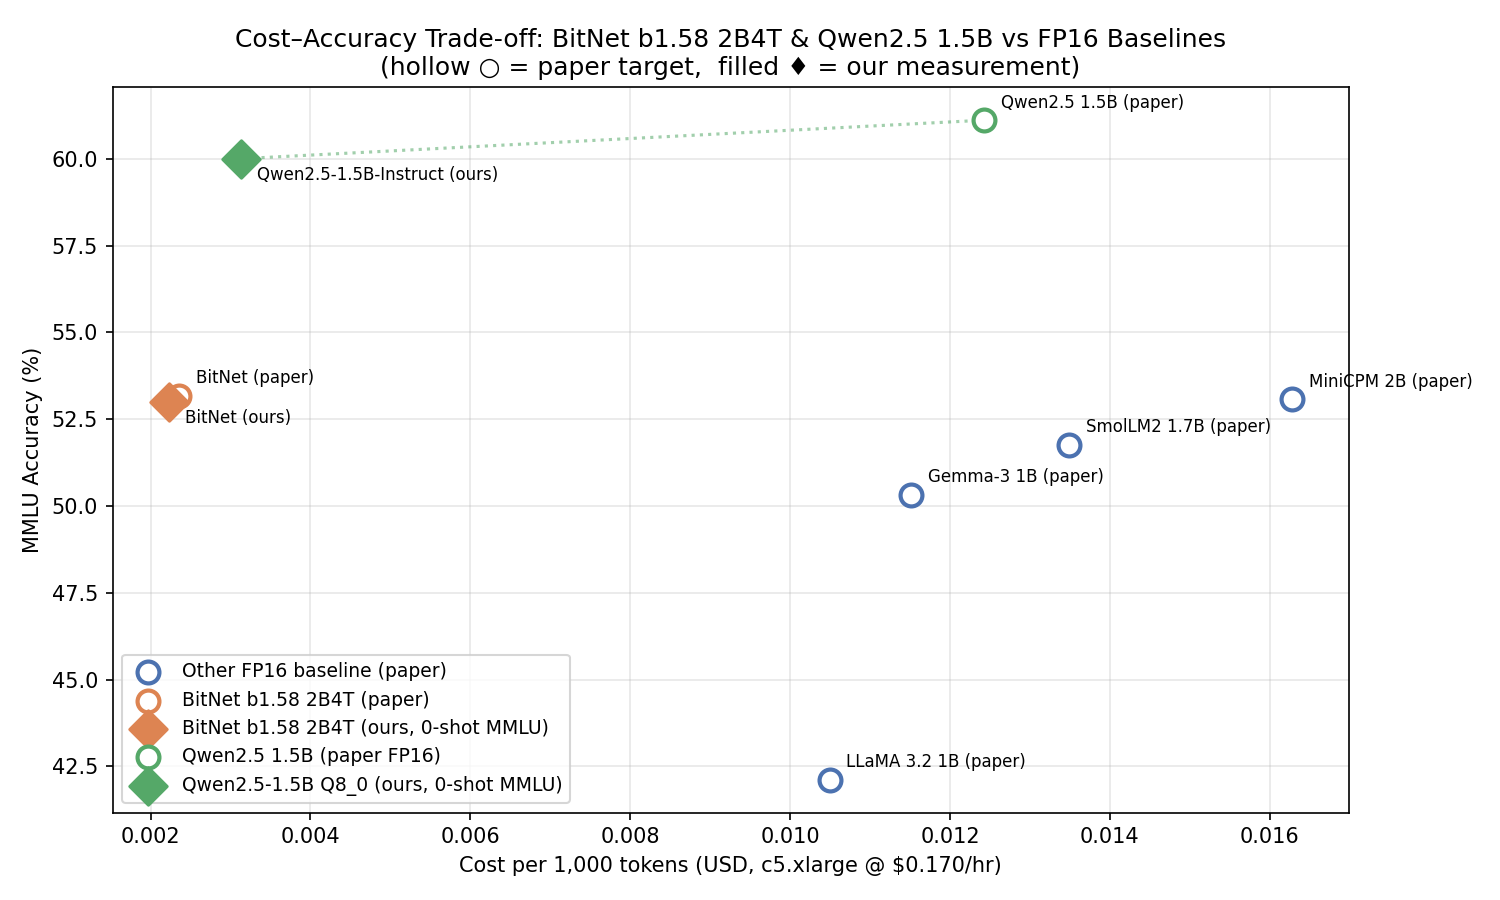
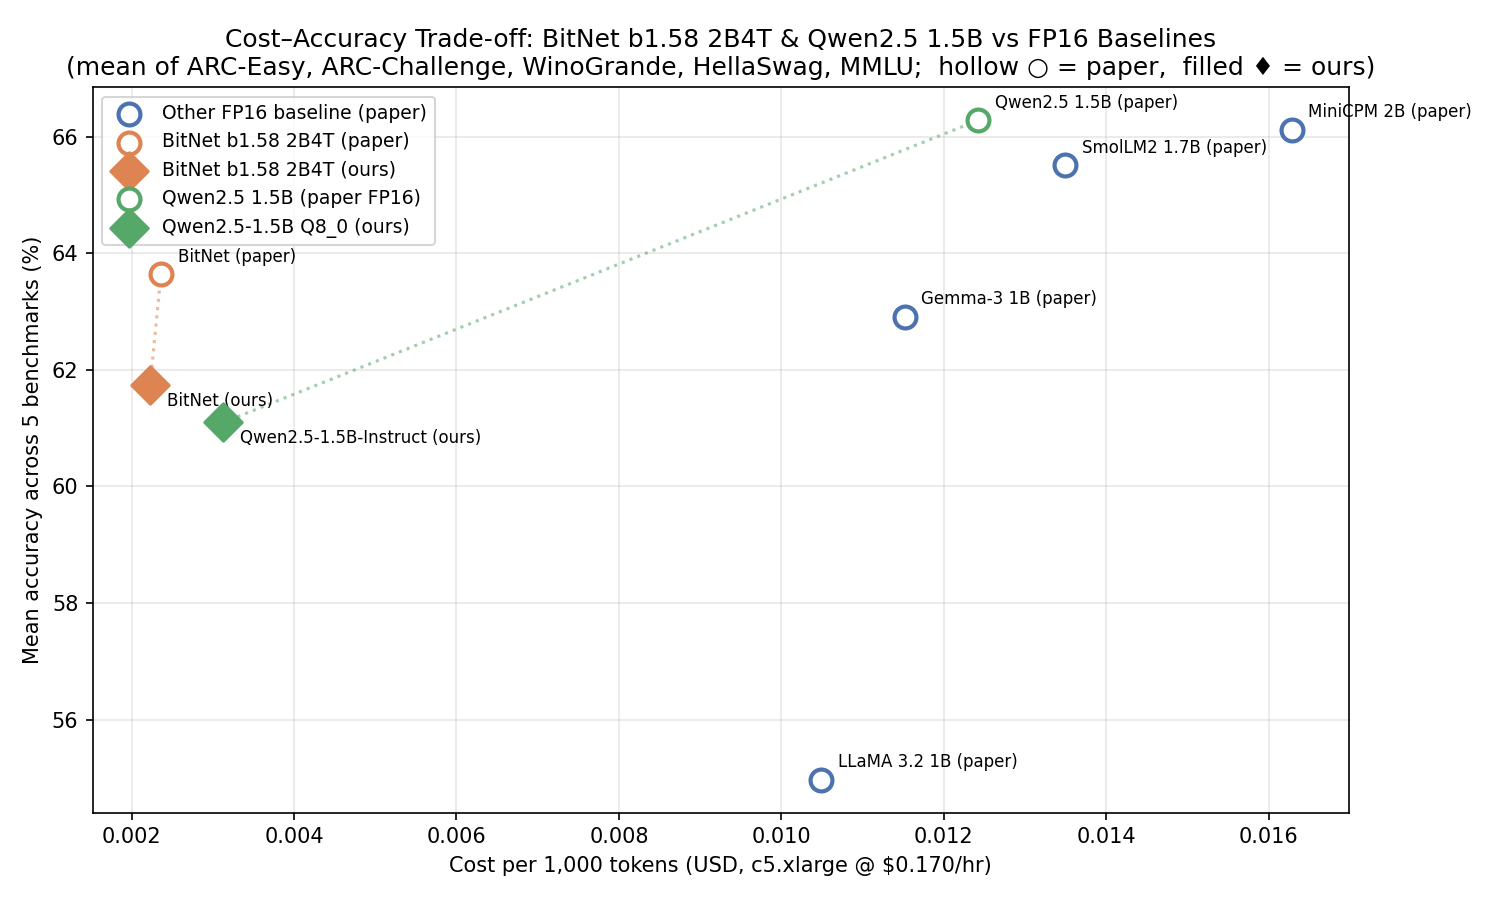
Add per-task cost/memory plots and Qwen throughput-by-config
- cost_accuracy.png and memory_accuracy_pareto.png now use the
  mean accuracy across all five benchmarks (ARC-Easy, ARC-Challenge,
  WinoGrande, HellaSwag, MMLU) instead of MMLU only.
- Adds per-task variants: {task}_cost_accuracy.png and
  {task}_memory_accuracy.png for each of the five tasks.
- Adds qwen_throughput_configs.png to mirror the BitNet equivalent;
  plot_throughput_by_config is parameterized by model/color/filename.
- Shared scatter logic extracted into _accuracy_scatter so the mean
  and per-task variants stay visually consistent (hollow paper,
  filled ours, dotted paper->ours connector).

diff --git a/scripts/compare_runs.py b/scripts/compare_runs.py
@@ -93,6 +93,15 @@ OTHER_COLOR  = "#4C72B0"
 BITNET_COLOR = "#DD8452"
 QWEN_COLOR   = "#55A868"
 
+# Display names for the five accuracy tasks (used in per-task plot titles/labels)
+TASK_LABELS = {
+    "arc_easy":      "ARC-Easy",
+    "arc_challenge": "ARC-Challenge",
+    "winogrande":    "WinoGrande",
+    "hellaswag":     "HellaSwag",
+    "mmlu":          "MMLU",
+}
+
 
 def parse_args():
     p = argparse.ArgumentParser()
@@ -349,19 +358,20 @@ def plot_memory(local_df: pd.DataFrame, out_dir: Path, qwen_df: pd.DataFrame | N
     print(f"Saved {path}")
 
 
-def plot_throughput_by_config(local_df: pd.DataFrame, out_dir: Path):
-    if local_df is None or local_df.empty:
-        print("Skipping BitNet throughput-by-config plot: no benchmark CSV.")
+def plot_throughput_by_config(df: pd.DataFrame, out_dir: Path,
+                              model_name: str, color: str, filename: str):
+    if df is None or df.empty:
+        print(f"Skipping {filename}: no benchmark CSV.")
         return
-    configs = local_df.groupby(["n_prompt", "n_gen"])["throughput_tokens_s"].median().reset_index()
+    configs = df.groupby(["n_prompt", "n_gen"])["throughput_tokens_s"].median().reset_index()
     labels = [f"p={int(row.n_prompt)} / g={int(row.n_gen)}" for _, row in configs.iterrows()]
 
     fig, ax = plt.subplots(figsize=(8, 4))
-    ax.bar(labels, configs["throughput_tokens_s"], color="#DD8452")
+    ax.bar(labels, configs["throughput_tokens_s"], color=color)
     ax.set_ylabel("Throughput (tokens/s)")
-    ax.set_title("BitNet b1.58 2B4T Throughput by Prompt/Generation Length")
+    ax.set_title(f"{model_name} Throughput by Prompt/Generation Length")
     fig.tight_layout()
-    path = out_dir / "bitnet_throughput_configs.png"
+    path = out_dir / filename
     fig.savefig(path, dpi=150)
     plt.close(fig)
     print(f"Saved {path}")
@@ -412,15 +422,49 @@ def plot_accuracy(local_acc: dict, out_dir: Path, qwen_acc: dict | None = None):
     print(f"Saved {path}")
 
 
-def plot_cost_accuracy(df: pd.DataFrame, out_dir: Path, hardware_rate: float):
-    # Use MMLU as the accuracy axis — most general benchmark, reported by all models.
-    # Hollow circles = paper-reported numbers; filled diamonds = our local measurements.
-    # A dotted connector between each model's (paper, ours) pair makes the
-    # paper-to-measurement delta visible at a glance.
-    plot_df = df[df["cost_per_1k_tokens"].notna() & (df["cost_per_1k_tokens"] != "")].copy()
-    plot_df = plot_df[plot_df["mmlu"].notna() & (plot_df["mmlu"] != "")].copy()
-    plot_df["cost_per_1k_tokens"] = pd.to_numeric(plot_df["cost_per_1k_tokens"])
-    plot_df["mmlu"] = pd.to_numeric(plot_df["mmlu"])
+def _accuracy_scatter(
+    df: pd.DataFrame,
+    out_dir: Path,
+    *,
+    x_col: str,
+    y_metric: str,        # one of TASK_LABELS keys, or the special value "mean_acc"
+    x_label: str,
+    y_label: str,
+    title: str,
+    filename: str,
+    legend_loc: str = "best",
+) -> None:
+    """
+    Shared scatter for both cost–accuracy and memory–accuracy comparisons.
+
+    Hollow circles = paper-reported numbers; filled diamonds = our local
+    measurements.  A dotted connector between each model's (paper, ours) pair
+    makes the paper-to-measurement delta visible at a glance.
+
+    `y_metric` selects the accuracy axis: either a task column name (e.g.
+    "mmlu") or "mean_acc" — the mean across the five tasks in TASK_LABELS.
+    """
+    plot_df = df[df[x_col].notna() & (df[x_col] != "")].copy()
+    plot_df[x_col] = pd.to_numeric(plot_df[x_col])
+
+    if y_metric == "mean_acc":
+        def _mean(row):
+            vals = []
+            for f in TASK_LABELS:
+                v = row[f]
+                if v == "" or pd.isna(v):
+                    return None
+                vals.append(float(v))
+            return sum(vals) / len(vals)
+        plot_df["_y"] = plot_df.apply(_mean, axis=1)
+    else:
+        plot_df = plot_df[plot_df[y_metric].notna() & (plot_df[y_metric] != "")].copy()
+        plot_df["_y"] = pd.to_numeric(plot_df[y_metric], errors="coerce")
+
+    plot_df = plot_df[plot_df["_y"].notna()]
+    if plot_df.empty:
+        print(f"Skipping {filename}: no rows with {x_col} + {y_metric} data.")
+        return
 
     fig, ax = plt.subplots(figsize=(10, 6))
 
@@ -429,7 +473,7 @@ def plot_cost_accuracy(df: pd.DataFrame, out_dir: Path, hardware_rate: float):
     BITNET_NAME     = "BitNet b1.58 2B4T"
 
     by_key = {
-        (row["model"], row["source"]): (row["cost_per_1k_tokens"], row["mmlu"])
+        (row["model"], row["source"]): (row[x_col], row["_y"])
         for _, row in plot_df.iterrows()
     }
     for ours_key, paper_key, color in [
@@ -453,49 +497,69 @@ def plot_cost_accuracy(df: pd.DataFrame, out_dir: Path, hardware_rate: float):
         elif source == "paper":
             color, label = BITNET_COLOR, "BitNet b1.58 2B4T (paper)"
         elif is_qwen_ours:
-            color, label = QWEN_COLOR, "Qwen2.5-1.5B Q8_0 (ours, 0-shot MMLU)"
+            color, label = QWEN_COLOR, "Qwen2.5-1.5B Q8_0 (ours)"
         else:
-            color, label = BITNET_COLOR, "BitNet b1.58 2B4T (ours, 0-shot MMLU)"
+            color, label = BITNET_COLOR, "BitNet b1.58 2B4T (ours)"
 
         if is_ours:
-            ax.scatter(row["cost_per_1k_tokens"], row["mmlu"],
+            ax.scatter(row[x_col], row["_y"],
                        facecolors=color, edgecolors=color, marker="D",
                        s=160, linewidths=1.5, label=label, zorder=3)
         else:
-            ax.scatter(row["cost_per_1k_tokens"], row["mmlu"],
+            ax.scatter(row[x_col], row["_y"],
                        facecolors="white", edgecolors=color, marker="o",
                        s=110, linewidths=2, label=label, zorder=3)
 
-        ann_label = model.replace(" b1.58 2B4T", "").replace(" (FP16)", "").replace(" Q8_0", "")
-        ann_label += " (ours)" if is_ours else " (paper)"
+        ann = model.replace(" b1.58 2B4T", "").replace(" (FP16)", "").replace(" Q8_0", "")
+        ann += " (ours)" if is_ours else " (paper)"
         # Offset paper labels above-right and ours labels below-right so each
-        # model's paper/ours pair separates even when the points sit nearly
-        # on top of each other (e.g. BitNet ours ≈ BitNet paper on MMLU/cost).
+        # model's paper/ours pair separates even when the points sit nearly on
+        # top of each other (e.g. BitNet ours ≈ BitNet paper on MMLU/cost).
         xy_offset = (8, -10) if is_ours else (8, 6)
-        ax.annotate(
-            ann_label,
-            (row["cost_per_1k_tokens"], row["mmlu"]),
-            textcoords="offset points", xytext=xy_offset, fontsize=8,
-        )
+        ax.annotate(ann, (row[x_col], row["_y"]),
+                    textcoords="offset points", xytext=xy_offset, fontsize=8)
 
-    # De-duplicate legend entries
     handles, labels_list = ax.get_legend_handles_labels()
     seen: dict = {}
     for h, l in zip(handles, labels_list):
         if l and l not in seen:
             seen[l] = h
-    ax.legend(seen.values(), seen.keys(), fontsize=9)
+    ax.legend(seen.values(), seen.keys(), fontsize=9, loc=legend_loc)
 
-    ax.set_xlabel(f"Cost per 1,000 tokens (USD, c5.xlarge @ ${hardware_rate:.3f}/hr)")
-    ax.set_ylabel("MMLU Accuracy (%)")
-    ax.set_title("Cost–Accuracy Trade-off: BitNet b1.58 2B4T & Qwen2.5 1.5B vs FP16 Baselines\n"
-                 "(hollow ○ = paper target,  filled ♦ = our measurement)")
+    ax.set_xlabel(x_label)
+    ax.set_ylabel(y_label)
+    ax.set_title(title)
     ax.grid(True, alpha=0.3)
     fig.tight_layout()
-    path = out_dir / "cost_accuracy.png"
+    path = out_dir / filename
     fig.savefig(path, dpi=150)
     plt.close(fig)
     print(f"Saved {path}")
+
+
+def plot_cost_accuracy(df: pd.DataFrame, out_dir: Path, hardware_rate: float):
+    """Cost vs accuracy: mean-of-5 plot plus one plot per task."""
+    x_label = f"Cost per 1,000 tokens (USD, c5.xlarge @ ${hardware_rate:.3f}/hr)"
+    _accuracy_scatter(
+        df, out_dir,
+        x_col="cost_per_1k_tokens", y_metric="mean_acc",
+        x_label=x_label,
+        y_label="Mean accuracy across 5 benchmarks (%)",
+        title="Cost–Accuracy Trade-off: BitNet b1.58 2B4T & Qwen2.5 1.5B vs FP16 Baselines\n"
+              "(mean of ARC-Easy, ARC-Challenge, WinoGrande, HellaSwag, MMLU;  "
+              "hollow ○ = paper,  filled ♦ = ours)",
+        filename="cost_accuracy.png",
+    )
+    for task, task_label in TASK_LABELS.items():
+        _accuracy_scatter(
+            df, out_dir,
+            x_col="cost_per_1k_tokens", y_metric=task,
+            x_label=x_label,
+            y_label=f"{task_label} Accuracy (%)",
+            title=f"Cost–{task_label} Trade-off: BitNet b1.58 2B4T & Qwen2.5 1.5B vs FP16 Baselines\n"
+                  f"(hollow ○ = paper target,  filled ♦ = our measurement)",
+            filename=f"{task}_cost_accuracy.png",
+        )
 
 
 def plot_energy_carbon(local_df: pd.DataFrame, qwen_df: pd.DataFrame | None, out_dir: Path):
@@ -577,101 +641,35 @@ def plot_energy_carbon(local_df: pd.DataFrame, qwen_df: pd.DataFrame | None, out
     print(f"Saved {path}")
 
 
-def plot_memory_accuracy(comparison_df: pd.DataFrame, out_dir: Path):
+def plot_memory_accuracy(df: pd.DataFrame, out_dir: Path):
     """
-    Memory–accuracy Pareto frontier: peak_rss_mb on x, mean-of-5-task accuracy on y.
+    Memory vs accuracy: mean-of-5 Pareto plot plus one plot per task.
 
     Lower-left is more efficient (less memory per accuracy point); BitNet b1.58
     typically sits in a corner the FP16 baselines can't reach.  Same hollow-vs-
     filled marker convention as plot_cost_accuracy.
     """
-    ACC_FIELDS = ["arc_easy", "arc_challenge", "winogrande", "hellaswag", "mmlu"]
-    df = comparison_df.copy()
-    df = df[df["peak_rss_mb"].notna() & (df["peak_rss_mb"] != "")].copy()
-    df["peak_rss_mb"] = pd.to_numeric(df["peak_rss_mb"])
-
-    def mean_acc(row) -> float | None:
-        vals = []
-        for f in ACC_FIELDS:
-            v = row[f]
-            if v == "" or pd.isna(v):
-                return None
-            vals.append(float(v))
-        return sum(vals) / len(vals)
-
-    df["mean_acc"] = df.apply(mean_acc, axis=1)
-    df = df[df["mean_acc"].notna()]
-    if df.empty:
-        print("Skipping memory–accuracy plot: no rows with full accuracy + memory data.")
-        return
-
-    fig, ax = plt.subplots(figsize=(10, 6))
-
-    QWEN_OURS_NAME  = "Qwen2.5-1.5B-Instruct Q8_0"
-    QWEN_PAPER_NAME = "Qwen2.5 1.5B"
-    BITNET_NAME     = "BitNet b1.58 2B4T"
-
-    by_key = {
-        (row["model"], row["source"]): (row["peak_rss_mb"], row["mean_acc"])
-        for _, row in df.iterrows()
-    }
-    for ours_key, paper_key, color in [
-        ((BITNET_NAME, "ours"),    (BITNET_NAME, "paper"),           BITNET_COLOR),
-        ((QWEN_OURS_NAME, "ours"), (QWEN_PAPER_NAME, "paper (FP16)"), QWEN_COLOR),
-    ]:
-        if ours_key in by_key and paper_key in by_key:
-            x0, y0 = by_key[paper_key]
-            x1, y1 = by_key[ours_key]
-            ax.plot([x0, x1], [y0, y1], linestyle=":", color=color, alpha=0.55, zorder=2)
-
-    for _, row in df.iterrows():
-        source, model = row["source"], row["model"]
-        is_qwen_ours  = source == "ours" and model == QWEN_OURS_NAME
-        is_qwen_paper = source == "paper (FP16)" and model == QWEN_PAPER_NAME
-        is_ours = source == "ours"
-        if is_qwen_paper:
-            color, label = QWEN_COLOR, "Qwen2.5 1.5B (paper FP16)"
-        elif source == "paper (FP16)":
-            color, label = OTHER_COLOR, "Other FP16 baseline (paper)"
-        elif source == "paper":
-            color, label = BITNET_COLOR, "BitNet b1.58 2B4T (paper)"
-        elif is_qwen_ours:
-            color, label = QWEN_COLOR, "Qwen2.5-1.5B Q8_0 (ours)"
-        else:
-            color, label = BITNET_COLOR, "BitNet b1.58 2B4T (ours)"
-
-        if is_ours:
-            ax.scatter(row["peak_rss_mb"], row["mean_acc"],
-                       facecolors=color, edgecolors=color, marker="D",
-                       s=160, linewidths=1.5, label=label, zorder=3)
-        else:
-            ax.scatter(row["peak_rss_mb"], row["mean_acc"],
-                       facecolors="white", edgecolors=color, marker="o",
-                       s=110, linewidths=2, label=label, zorder=3)
-
-        ann = model.replace(" b1.58 2B4T", "").replace(" (FP16)", "").replace(" Q8_0", "")
-        ann += " (ours)" if is_ours else " (paper)"
-        xy_offset = (8, -10) if is_ours else (8, 6)
-        ax.annotate(ann, (row["peak_rss_mb"], row["mean_acc"]),
-                    textcoords="offset points", xytext=xy_offset, fontsize=8)
-
-    handles, labels_list = ax.get_legend_handles_labels()
-    seen: dict = {}
-    for h, l in zip(handles, labels_list):
-        if l and l not in seen:
-            seen[l] = h
-    ax.legend(seen.values(), seen.keys(), fontsize=9, loc="lower right")
-
-    ax.set_xlabel("Peak RSS (MB) — lower is better")
-    ax.set_ylabel("Mean accuracy across 5 benchmarks (%)")
-    ax.set_title("Memory–Accuracy Pareto: BitNet b1.58 2B4T & Qwen2.5 1.5B vs FP16 Baselines\n"
-                 "(hollow ○ = paper target,  filled ♦ = our measurement)")
-    ax.grid(True, alpha=0.3)
-    fig.tight_layout()
-    path = out_dir / "memory_accuracy_pareto.png"
-    fig.savefig(path, dpi=150)
-    plt.close(fig)
-    print(f"Saved {path}")
+    _accuracy_scatter(
+        df, out_dir,
+        x_col="peak_rss_mb", y_metric="mean_acc",
+        x_label="Peak RSS (MB) — lower is better",
+        y_label="Mean accuracy across 5 benchmarks (%)",
+        title="Memory–Accuracy Pareto: BitNet b1.58 2B4T & Qwen2.5 1.5B vs FP16 Baselines\n"
+              "(mean of ARC-Easy, ARC-Challenge, WinoGrande, HellaSwag, MMLU;  "
+              "hollow ○ = paper,  filled ♦ = ours)",
+        filename="memory_accuracy_pareto.png",
+        legend_loc="lower right",
+    )
+    for task, task_label in TASK_LABELS.items():
+        _accuracy_scatter(
+            df, out_dir,
+            x_col="peak_rss_mb", y_metric=task,
+            x_label="Peak RSS (MB) — lower is better",
+            y_label=f"{task_label} Accuracy (%)",
+            title=f"Memory–{task_label} Pareto: BitNet b1.58 2B4T & Qwen2.5 1.5B vs FP16 Baselines\n"
+                  f"(hollow ○ = paper target,  filled ♦ = our measurement)",
+            filename=f"{task}_memory_accuracy.png",
+        )
 
 
 def main():
@@ -687,7 +685,10 @@ def main():
 
     plot_throughput(local_df, PLOTS_DIR, qwen_df)
     plot_memory(local_df, PLOTS_DIR, qwen_df)
-    plot_throughput_by_config(local_df, PLOTS_DIR)
+    plot_throughput_by_config(local_df, PLOTS_DIR,
+                              "BitNet b1.58 2B4T", BITNET_COLOR, "bitnet_throughput_configs.png")
+    plot_throughput_by_config(qwen_df, PLOTS_DIR,
+                              "Qwen2.5-1.5B-Instruct Q8_0", QWEN_COLOR, "qwen_throughput_configs.png")
     plot_accuracy(local_acc, PLOTS_DIR, qwen_acc)
     plot_cost_accuracy(comparison_df, PLOTS_DIR, args.hardware_rate)
     plot_energy_carbon(local_df, qwen_df, PLOTS_DIR)
